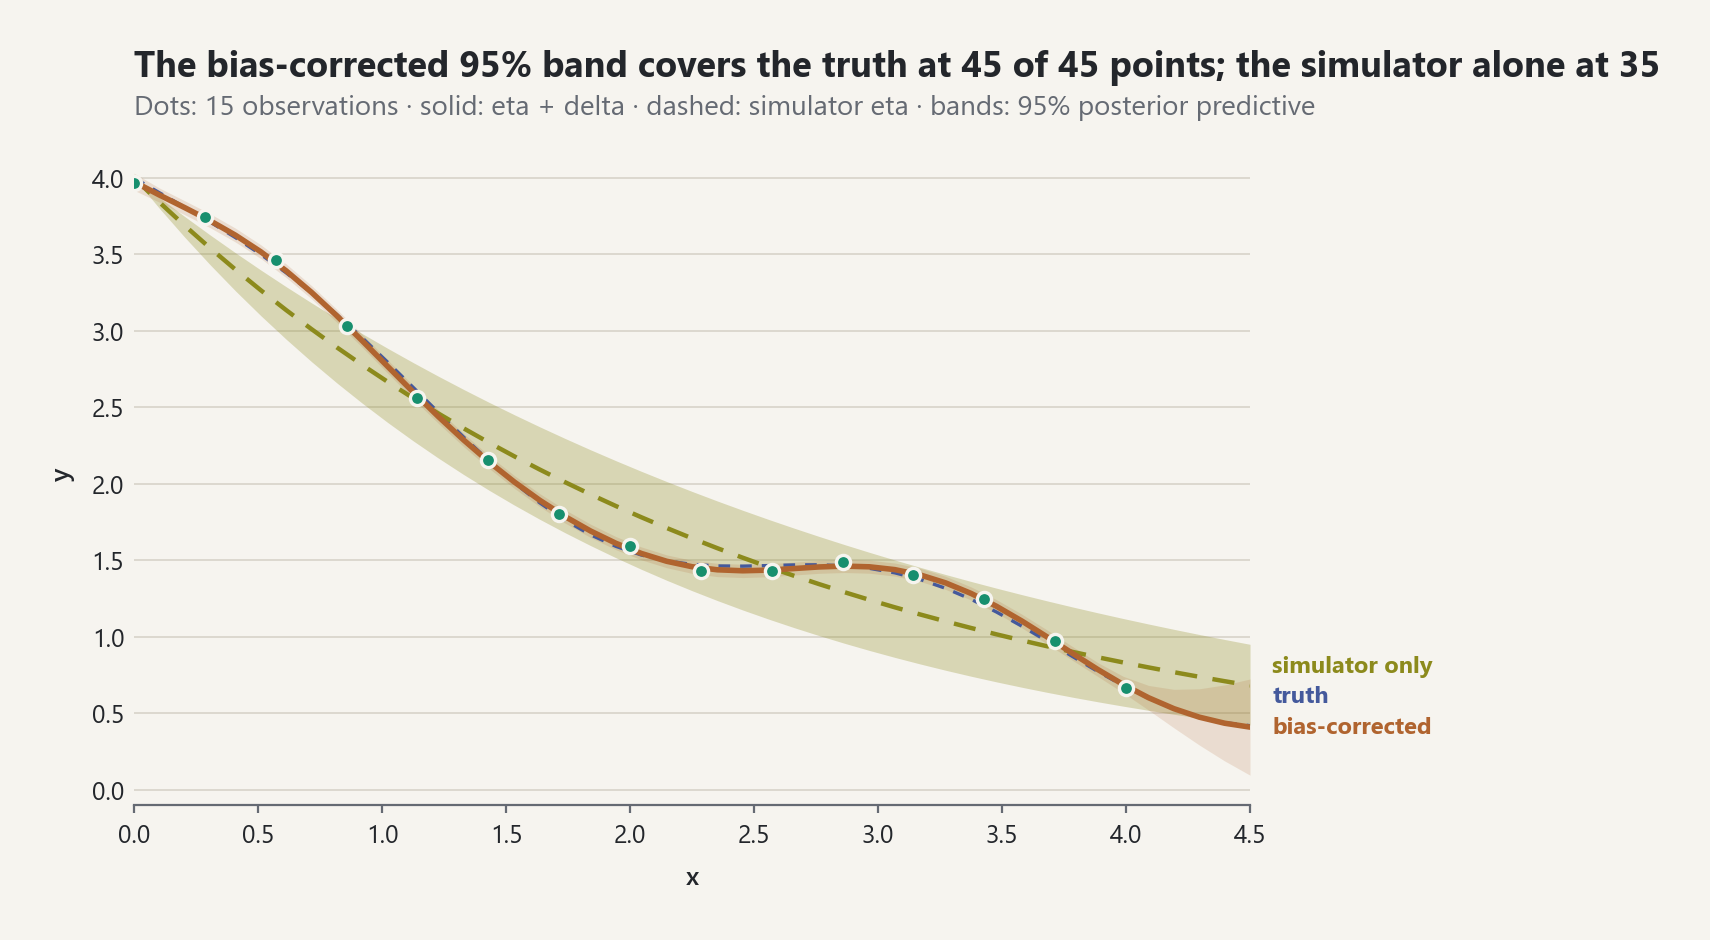
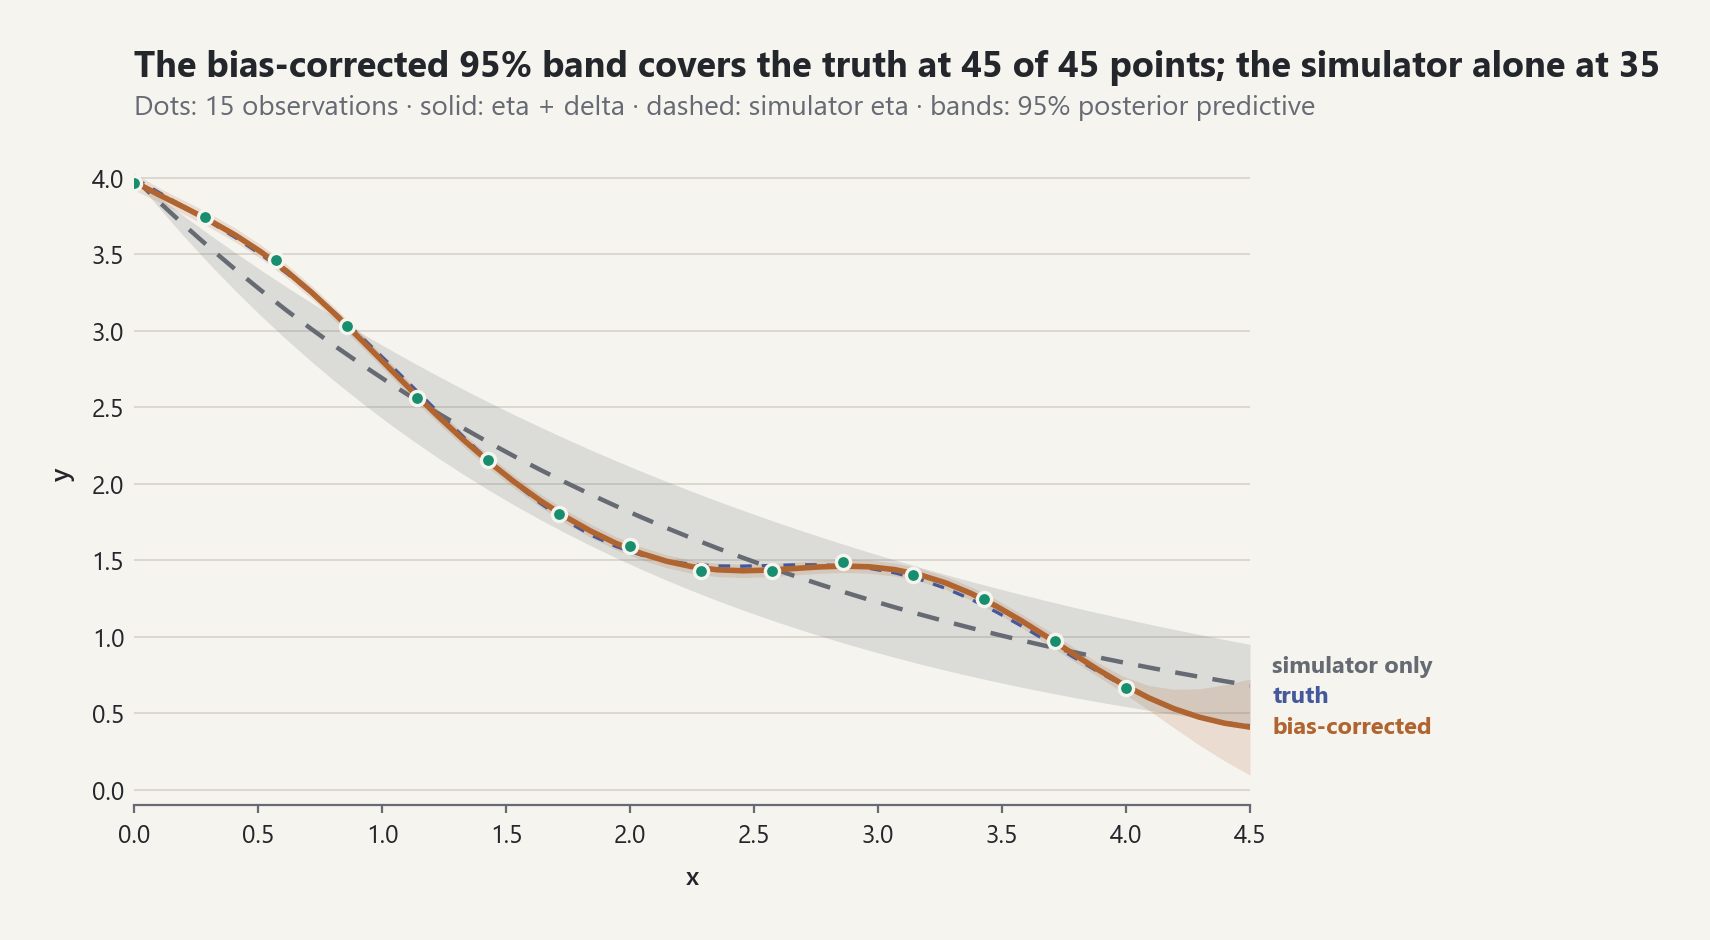
style: discrepancy figure draws the simulator baseline in muted ink
sunumatik chart-aesthetics: context/baseline series take muted ink, not a new
hue; the olive simulator band read as a third series. Gallery images
regenerated in both palettes.

Changed region(s): [[0.093, 0.216, 0.8368, 0.7713]]

diff --git a/src/probstat/visualization/calibration_plots.py b/src/probstat/visualization/calibration_plots.py
@@ -7,10 +7,11 @@ The functions take :class:`~probstat.inverse.DiscrepancyCalibration` and the
 * observations use the observed hue (``series[0]``);
 * the bias-corrected prediction ``eta + delta`` is the model's answer, so it
   takes the model hue (``series[1]``), solid line on its band;
-* the simulator-only prediction ``eta`` is a second model curve; it takes the
-  fourth categorical slot (``series[3]``, olive in porcelain, rose in
-  graphite) with the ``FITTED`` dash, so the two predictions never share a
-  hue and neither is confused with the indigo accent of the truth;
+* the simulator-only prediction ``eta`` is the baseline the correction is
+  measured against, so it is drawn in muted ink with the ``FITTED`` dash
+  (sunumatik chart-aesthetics: context and baseline series take muted ink,
+  not a new hue; an extra hue band reads as a third series, the "olive
+  blob" failure);
 * a supplied truth is a reference curve in the accent colour.
 """
 
@@ -248,7 +249,7 @@ def plot_discrepancy_predictions(
     corrected = [item.interval(level, kind="corrected") for item in predictions]
     axes = new_axes(ax)
     palette = active_palette()
-    simulator_colour = palette.series[3]
+    simulator_colour = palette.muted
     band(
         axes,
         xs,

diff --git a/tests/test_visualization_calibration_hierarchy.py b/tests/test_visualization_calibration_hierarchy.py
@@ -185,7 +185,7 @@ class CalibrationFigureTests(unittest.TestCase):
         self.assertIn(f"of {len(self.xs)} points", title)
         colours = _line_colours(axes)
         self.assertIn(palette.model.upper(), colours)
-        self.assertIn(palette.series[3].upper(), colours)
+        self.assertIn(palette.muted.upper(), colours)
         self.assertIn(palette.accent.upper(), colours)
         scatter = axes.collections[-1]
         self.assertEqual(_hex(scatter.get_facecolor()[0]), palette.observed.upper())
